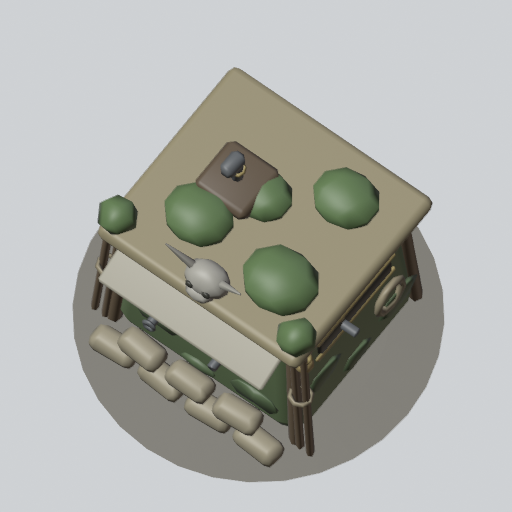
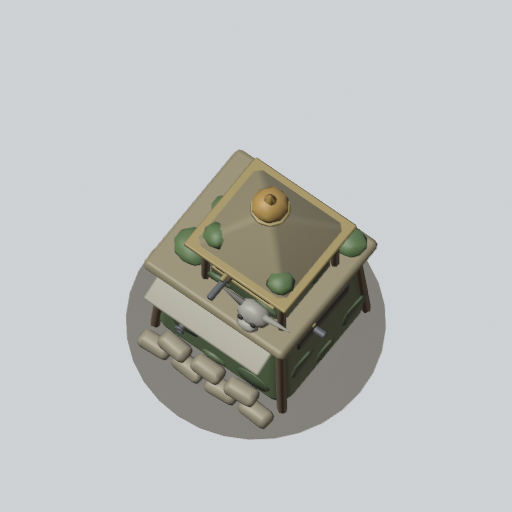
art: Scout bolder upgrades - S1 a lookout storey on the roof, S2 a taller peaked lookout with a glowing brazier (#443)

diff --git a/tools/art/models/tower/_scout.py b/tools/art/models/tower/_scout.py
@@ -3,11 +3,12 @@ round, a thatch-and-leaf roof, a canvas awning over the front slit and a rifle p
 it. Authored from the base (y 0) in Roblox studs; front = -Z (_kit conventions).
 
 Stage 0 (tiers 0-2): the hide, camo patches, slits, corner poles, awning, thatch, one rifle.
-Stage 1 (tier 3):    sandbags banked along the front, a second rifle out of the left slit,
-                     branch bundles lashed to the front corners, a roof hatch with a periscope,
-                     a coil of rope.
-Stage 2 (tier 5):    brass-framed slits, brass scopes on three rifles, a horned dino-skull
-                     trophy on the roof's front edge, a glowing lantern on the front-left pole.
+Stage 1 (tier 3):    a second storey - a camo lookout box on the roof with its own slit,
+                     rifle, ladder and thatch roof; sandbags banked along the front, a second
+                     rifle out of the left slit.
+Stage 2 (tier 5):    a taller lookout under a peaked brass-trimmed thatch roof crowned by a
+                     glowing signal brazier, a big horned dino skull on its front, brass-framed
+                     slits and brass scopes.
 """
 
 import importlib.util
@@ -83,15 +84,53 @@ def build(lp, stage):
     # thatch roof with leafy clumps (kept off the back-right corner: the owner flag's)
     roof_y = H + 0.1
     k.add("thatch", K.rbox((0, roof_y, Z0), (2.72, 0.22, 2.5), bevel=0.1, segments=2))
-    clumps = ((-0.62, -0.55, 0.46), (0.55, -0.45, 0.42), (-0.6, 0.65, 0.4), (0.15, 0.15, 0.36))
+    if stage == 0:
+        clumps = ((-0.62, -0.55, 0.46), (0.55, -0.45, 0.42), (-0.6, 0.65, 0.4), (0.15, 0.15, 0.36))
+    else:  # the lookout stands on the roof's left: the clumps go round it
+        clumps = ((0.85, -0.55, 0.36), (0.8, 0.25, 0.3), (-1.0, 0.95, 0.3))
     k.add("leaf", *[K.ell((x, roof_y + 0.14, Z0 + z), (s, s * 0.5, s * 0.85), 10, 5) for x, z, s in clumps])
 
     # rifles poking out of the slits; the first one's muzzle is the firing point
     rifles = [((0.42, sy, front_z(sy) + 0.4), (0.42, sy + 0.03, -1.4))]
     if stage >= 1:
         rifles.append(((-side_x(sy) + 0.4, sy, Z0 - 0.25), (-1.42, sy + 0.03, Z0 - 0.25)))
-    if stage >= 2:
-        rifles.append(((-0.42, sy, front_z(sy) + 0.4), (-0.42, sy + 0.03, -1.4)))
+
+    # stage 1+: a second storey - a camo lookout box on the roof's left half, its own slit,
+    # rifle and thatch roof; stage 2 builds it taller and crowns it with a peaked roof
+    LX, LZ, LW, LD = -0.3, Z0 - 0.15, 1.5, 1.4
+    ly0 = roof_y + 0.11
+    LH = 1.05 if stage == 1 else 1.12
+    ly1 = ly0 + LH
+    if stage >= 1:
+        k.add("body", K.rbox((LX, ly0 + LH / 2, LZ), (LW, LH, LD), bevel=0.14, segments=1, taper=(0.9, 0.9)))
+        k.add("camo", *[K.ell((LX + u, ly0 + v, LZ - LD / 2 * (1 - 0.1 * v / LH) - 0.005), (0.26, 0.16, 0.05), 8, 3)
+                        for u, v in ((-0.42, 0.3), (0.45, 0.22))],
+              *[K.ell((LX - LW / 2 * (1 - 0.1 * v / LH) - 0.005, ly0 + v, LZ + u), (0.05, 0.16, 0.26), 8, 3)
+                for u, v in ((0.3, 0.32),)])
+        lsy = ly0 + LH * 0.62
+        k.add("slit", K.rbox((LX, lsy, LZ - LD / 2 * 0.95), (1.1, 0.24, 0.1), bevel=0.04))
+        rifles.append(((LX + 0.25, lsy, LZ - 0.2), (LX + 0.25, lsy + 0.02, -1.25)))
+        # corner poles of the lookout, a ladder up its right side
+        lp_ = []
+        for sx in (-1, 1):
+            for sz in (-1, 1):
+                x, z = LX + sx * (LW / 2 - 0.02), LZ + sz * (LD / 2 - 0.02)
+                lp_.append(K.rod((x, ly0 - 0.05, z), (x, ly1 + 0.1, z), 0.07, 6))
+        for dz in (-0.25, 0.25):
+            lp_.append(K.rod((LX + LW / 2 + 0.12, roof_y + 0.1, LZ + dz), (LX + LW / 2 + 0.12, ly1 - 0.1, LZ + dz), 0.035, 5))
+        lp_ += [K.rod((LX + LW / 2 + 0.12, y, LZ - 0.25), (LX + LW / 2 + 0.12, y, LZ + 0.25), 0.03, 5)
+                for y in (ly0 + 0.25, ly0 + 0.6, ly0 + 0.95)]
+        k.add("wood", *lp_)
+        # sandbags banked along the front wall, two courses
+        bags = [K.sandbag((x, 0.13, -1.28), 0.6, yaw=(i % 2) * 8 - 4) for i, x in enumerate((-0.96, -0.32, 0.32, 0.96))]
+        bags += [K.sandbag((x, 0.36, -1.22), 0.58, yaw=4 - 4 * i) for i, x in enumerate((-0.64, 0.0, 0.64))]
+        k.add("sand", *bags)
+    if stage == 1:
+        # a flat thatch roof with a leafy clump
+        k.add("thatch", K.rbox((LX, ly1 + 0.1, LZ), (LW + 0.3, 0.2, LD + 0.3), bevel=0.08, segments=1))
+        k.add("leaf", K.ell((LX - 0.2, ly1 + 0.24, LZ - 0.1), (0.42, 0.2, 0.38), 10, 5),
+              K.ell((LX + 0.35, ly1 + 0.22, LZ + 0.3), (0.3, 0.16, 0.28), 8, 4))
+
     k.add("metal", *[K.rod(a, b, 0.06, 8) for a, b in rifles])
     stocks = [K.rod(K.along(a, b, 0.35), K.along(a, b, 0.62), 0.085, 8) for a, b in rifles]  # forestocks
     k.add("wood", *stocks)
@@ -99,59 +138,42 @@ def build(lp, stage):
     k.add("metal", K.ring_along(b, K.along(b, a, -1), 0.065, 0.028, 8, 4), piece="muzzle", role="muzzle")
 
     brass = []
-    if stage >= 1:
-        # sandbags banked along the front wall, two courses
-        bags = [K.sandbag((x, 0.13, -1.28), 0.6, yaw=(i % 2) * 8 - 4) for i, x in enumerate((-0.96, -0.32, 0.32, 0.96))]
-        bags += [K.sandbag((x, 0.36, -1.22), 0.58, yaw=4 - 4 * i) for i, x in enumerate((-0.64, 0.0, 0.64))]
-        k.add("sand", *bags)
-        # branch bundles lashed to the front corners, rope ties
-        sticks, tufts, ties = [], [], []
-        for sx in (-1, 1):
-            for dx in (-0.07, 0.07):
-                sticks.append(K.rod((sx * 1.38 + dx, 0.02, -1.0), (sx * 1.2 + dx, 2.5, -0.92), 0.05, 6))
-            tufts.append(K.ell((sx * 1.2, 2.5, -0.92), (0.24, 0.2, 0.22), 8, 5))
-            ties.append(K.ring((sx * 1.29, 1.2, -0.96), 0.12, 0.03, 8, 4))
-        k.add("wood", *sticks)
-        k.add("leaf", *tufts)
-        # a coil of rope hung on the left wall
-        ties.append(K.ring((-side_x(0.9) - 0.03, 0.9, Z0 + 0.55), 0.22, 0.05, 12, 5, rot=(0, 0, 90)))
-        k.add("rope", *ties)
-        # roof hatch with a periscope
-        k.add("dark", K.rbox((0.45, roof_y + 0.2, Z0 + 0.1), (0.7, 0.22, 0.7), bevel=0.07))
-        k.add("metal", K.rod((0.45, roof_y + 0.28, Z0 + 0.1), (0.45, roof_y + 0.72, Z0 + 0.1), 0.07, 8),
-              K.rbox((0.45, roof_y + 0.74, Z0 + 0.02), (0.18, 0.18, 0.3), bevel=0.05))
-
     if stage >= 2:
-        # brass frames round the slits
+        # a peaked thatch roof on the lookout, brass-capped, a glowing signal brazier on its point
+        ry = ly1 + 0.05
+        k.add("thatch", K.rbox((LX, ry + 0.4, LZ), (LW + 0.4, 0.8, LD + 0.4), bevel=0.08, segments=1, taper=(0.12, 0.12)))
+        k.add("leaf", *[K.ell((LX + dx, ry + 0.22, LZ + dz), (0.24, 0.14, 0.22), 8, 4)
+                        for dx, dz in ((-0.65, -0.6), (0.6, -0.55))])
+        tip = ry + 0.8
+        brass += [K.rbox((LX, ry + 0.06, LZ), (LW + 0.46, 0.08, LD + 0.46), bevel=0.03),  # eave trim
+                  K.rod((LX, tip - 0.05, LZ), (LX, tip + 0.15, LZ), 0.12, 8, top=1.0),
+                  K.cyl((LX, tip + 0.2, LZ), 0.24, 0.16, 10, top=1.45, bevel=0.04)]  # brazier bowl
+        k.add("glow", K.ell((LX, tip + 0.36, LZ), (0.3, 0.22, 0.3), 10, 5),
+              K.rod((LX, tip + 0.4, LZ), (LX, tip + 0.68, LZ), 0.2, 8, top=0.1))
+        # brass frames round the slits, upper and lower
         for zf, w in ((front_z(sy) - 0.02, 1.8), (back_z(sy) + 0.02, 1.4)):
             brass += [K.rbox((0, sy + dy, zf), (w, 0.06, 0.06), bevel=0.02) for dy in (-0.18, 0.18)]
-        for sx in (-1, 1):
-            brass += [K.rbox((sx * (side_x(sy) + 0.02), sy + dy, Z0), (0.06, 0.06, 1.4), bevel=0.02) for dy in (-0.18, 0.18)]
+        brass += [K.rbox((LX, lsy + dy, LZ - LD / 2 * 0.95 - 0.03), (1.2, 0.06, 0.06), bevel=0.02) for dy in (-0.16, 0.16)]
         # brass scopes on every rifle
         for a, b in rifles:
             lift = (0, 0.12, 0)
             pa = tuple(p + q for p, q in zip(K.along(a, b, 0.3), lift))
             pb = tuple(p + q for p, q in zip(K.along(a, b, 0.7), lift))
             brass.append(K.rod(pa, pb, 0.045, 8))
-        brass.append(K.ring((0.45, roof_y + 0.5, Z0 + 0.1), 0.08, 0.025, 8, 4))  # periscope band
-        # horned skull trophy on the roof's front edge
-        sz = front_z(H) - 0.02
+        # a big horned dino-skull trophy on the lookout's front
+        sz, syk = LZ - LD / 2 - 0.12, ly0 + 0.2  # sits on the lower roof
         k.add("bone",
-              K.ell((0, roof_y + 0.22, sz), (0.28, 0.2, 0.2), 10, 6),
-              K.ell((0, roof_y + 0.14, sz - 0.14), (0.18, 0.1, 0.12), 8, 4),
-              K.rod((-0.2, roof_y + 0.32, sz), (-0.5, roof_y + 0.6, sz - 0.08), 0.055, 6, top=0.2),
-              K.rod((0.2, roof_y + 0.32, sz), (0.5, roof_y + 0.6, sz - 0.08), 0.055, 6, top=0.2))
-        k.add("slit", *[K.ell((s * 0.11, roof_y + 0.25, sz - 0.18), (0.06, 0.05, 0.03), 6, 4) for s in (-1, 1)])
-        # a lantern on the front-left pole (the flag owns the back-right)
-        lx, lz = -side_x(1.9) - 0.12, front_z(1.9) + 0.02
-        brass += [K.cyl((lx, 2.02, lz), 0.1, 0.06, 8), K.rod((lx, 2.05, lz), (lx + 0.12, 2.05, lz + 0.05), 0.02, 6)]
-        k.add("glow", K.ell((lx, 1.86, lz), (0.11, 0.14, 0.11), 8, 5))
+              K.ell((LX - 0.3, syk, sz), (0.3, 0.22, 0.2), 10, 6),
+              K.ell((LX - 0.3, syk - 0.1, sz - 0.16), (0.2, 0.11, 0.13), 8, 4),
+              K.rod((LX - 0.52, syk + 0.1, sz), (-1.35, syk + 0.45, sz - 0.1), 0.065, 6, top=0.2),
+              K.rod((LX - 0.08, syk + 0.1, sz), (LX + 0.25, syk + 0.45, sz - 0.1), 0.065, 6, top=0.2))
+        k.add("slit", *[K.ell((LX - 0.3 + s * 0.12, syk + 0.03, sz - 0.19), (0.065, 0.055, 0.03), 6, 4) for s in (-1, 1)])
     if brass:
         k.add("brass", *brass)
 
     colors = {
         "body": GREEN, "camo": CAMO, "slit": SLIT, "wood": K.WOOD, "thatch": THATCH, "leaf": LEAF,
         "canvas": K.CANVAS, "metal": K.METAL, "sand": K.SAND, "rope": K.ROPE, "dark": K.DARK,
-        "brass": K.BRASS, "bone": BONE, "glow": K.GLOW,
+        "brass": K.BRASS, "bone": BONE, "glow": (255, 160, 50),
     }
     return k.model("11d", colors, "SCOUT", stage)
